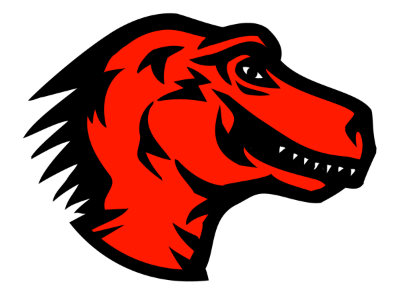
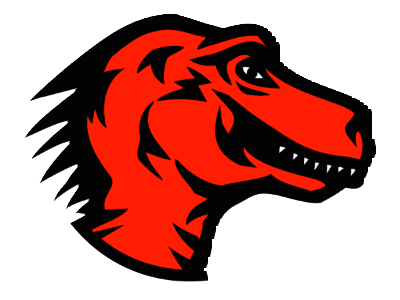
Updated and added imgs
The image editor i used for some reason changed the backgrounds of the images to white, so i had to remove the backgrounds and replace the existing files.

added the img tags to the hyperlinks

diff --git a/assign2/part1/index.html b/assign2/part1/index.html
@@ -107,7 +107,7 @@
   <body>
     <header>
       <h1>Mozilla</h1>
-      <img src="Assignment 2 Resized Pics\120px_firefox_logo-only_RGB.png" alt="firefox logo">
+      <img src="Assignment 2 Resized Pics\120px_firefox_logo-only_RGB.png" alt="Firefox Logo">
 
     </header>
 
@@ -125,16 +125,16 @@
       <div class="further-info">
         <!-- insert images with srcsets and sizes -->
         <a href="https://www.mozilla.org/en-US/firefox/new/">
-          <img>
+          <img srcset="" src="Assignment 2 Resized Pics\400px_firefox_logo-only_RGB.png" alt="Firefox Logo">
         </a>
         <a href="https://www.mozilla.org/">
-          <img>
+          <img src="Assignment 2 Resized Pics\400px_mozilla-dinosaur-head.png" alt="Mozilla Dinosaur Head">
         </a>
         <a href="https://addons.mozilla.org/">
-          <img>
+          <img src="Assignment 2 Resized Pics\firefox-addons.jpg" alt="Firefox Addons">
         </a>
         <a href="https://developer.mozilla.org/en-US/">
-          <img>
+          <img src="Assignment 2 Resized Pics\mdn.svg" alt="Mozilla Developer Network">
         </a>
         <div class="clearfix"></div>
       </div>
